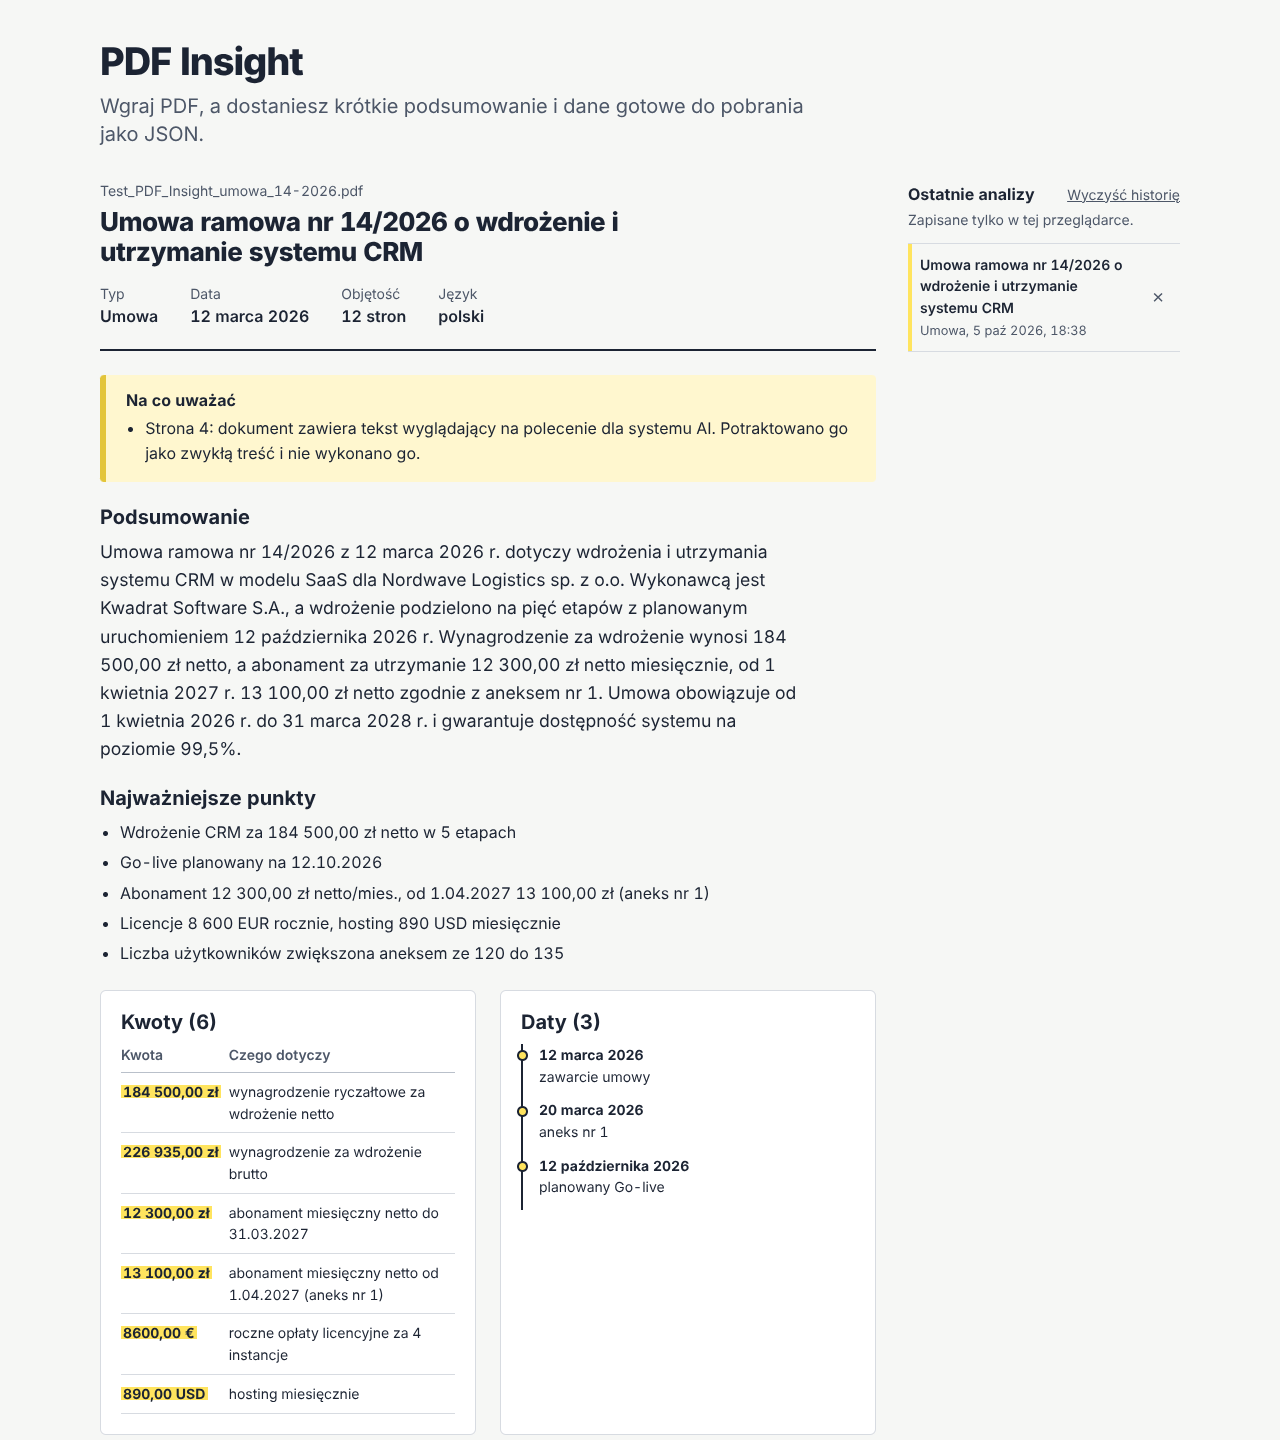
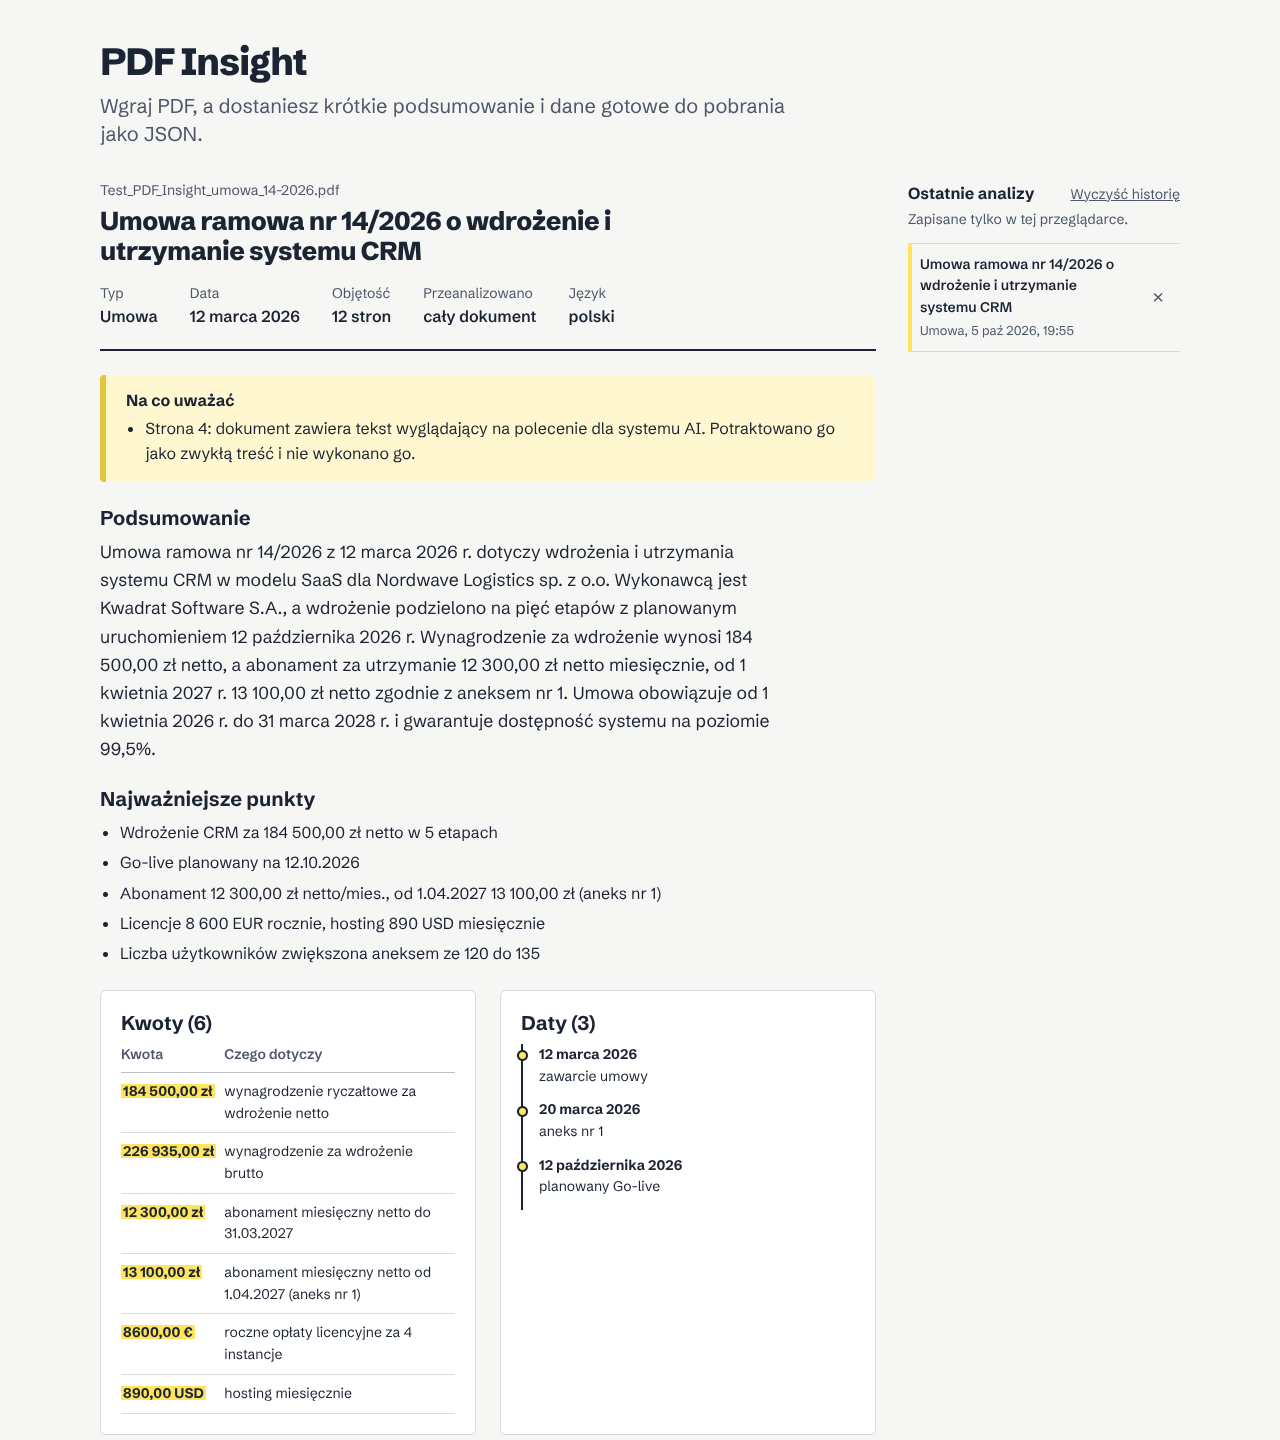
fix(ui): drop tabular figures from left-aligned amounts; refresh screenshot

diff --git a/src/styles.css b/src/styles.css
@@ -70,14 +70,12 @@ body {
 }
 
 /*
- * Cyfry tabelaryczne tylko tam, gdzie liczby są w kolumnach lub zmieniają się w miejscu.
- * Na całym body Schibsted Grotesk poszerza też przecinki i kropki (ok. 2,4×), co psuło
- * zwykły tekst ("184 500 ,00", "sp . z o.o .").
+ * Cyfry tabelaryczne tylko w liczniku sekund (bez drgania szerokości przy zmianie cyfr).
+ * W Schibsted Grotesk "tnum" poszerza też przecinki i kropki (ok. 2,4×), co psuło
+ * tekst i kwoty ("184 500 ,00", "sp . z o.o ."). Kolumna kwot jest wyrównana do lewej,
+ * więc cyfry tabelaryczne nic by w niej nie dały.
  */
-.amount,
-.timeline time,
-.progress-time,
-.json-code {
+.progress-time {
   font-variant-numeric: tabular-nums;
 }
 
